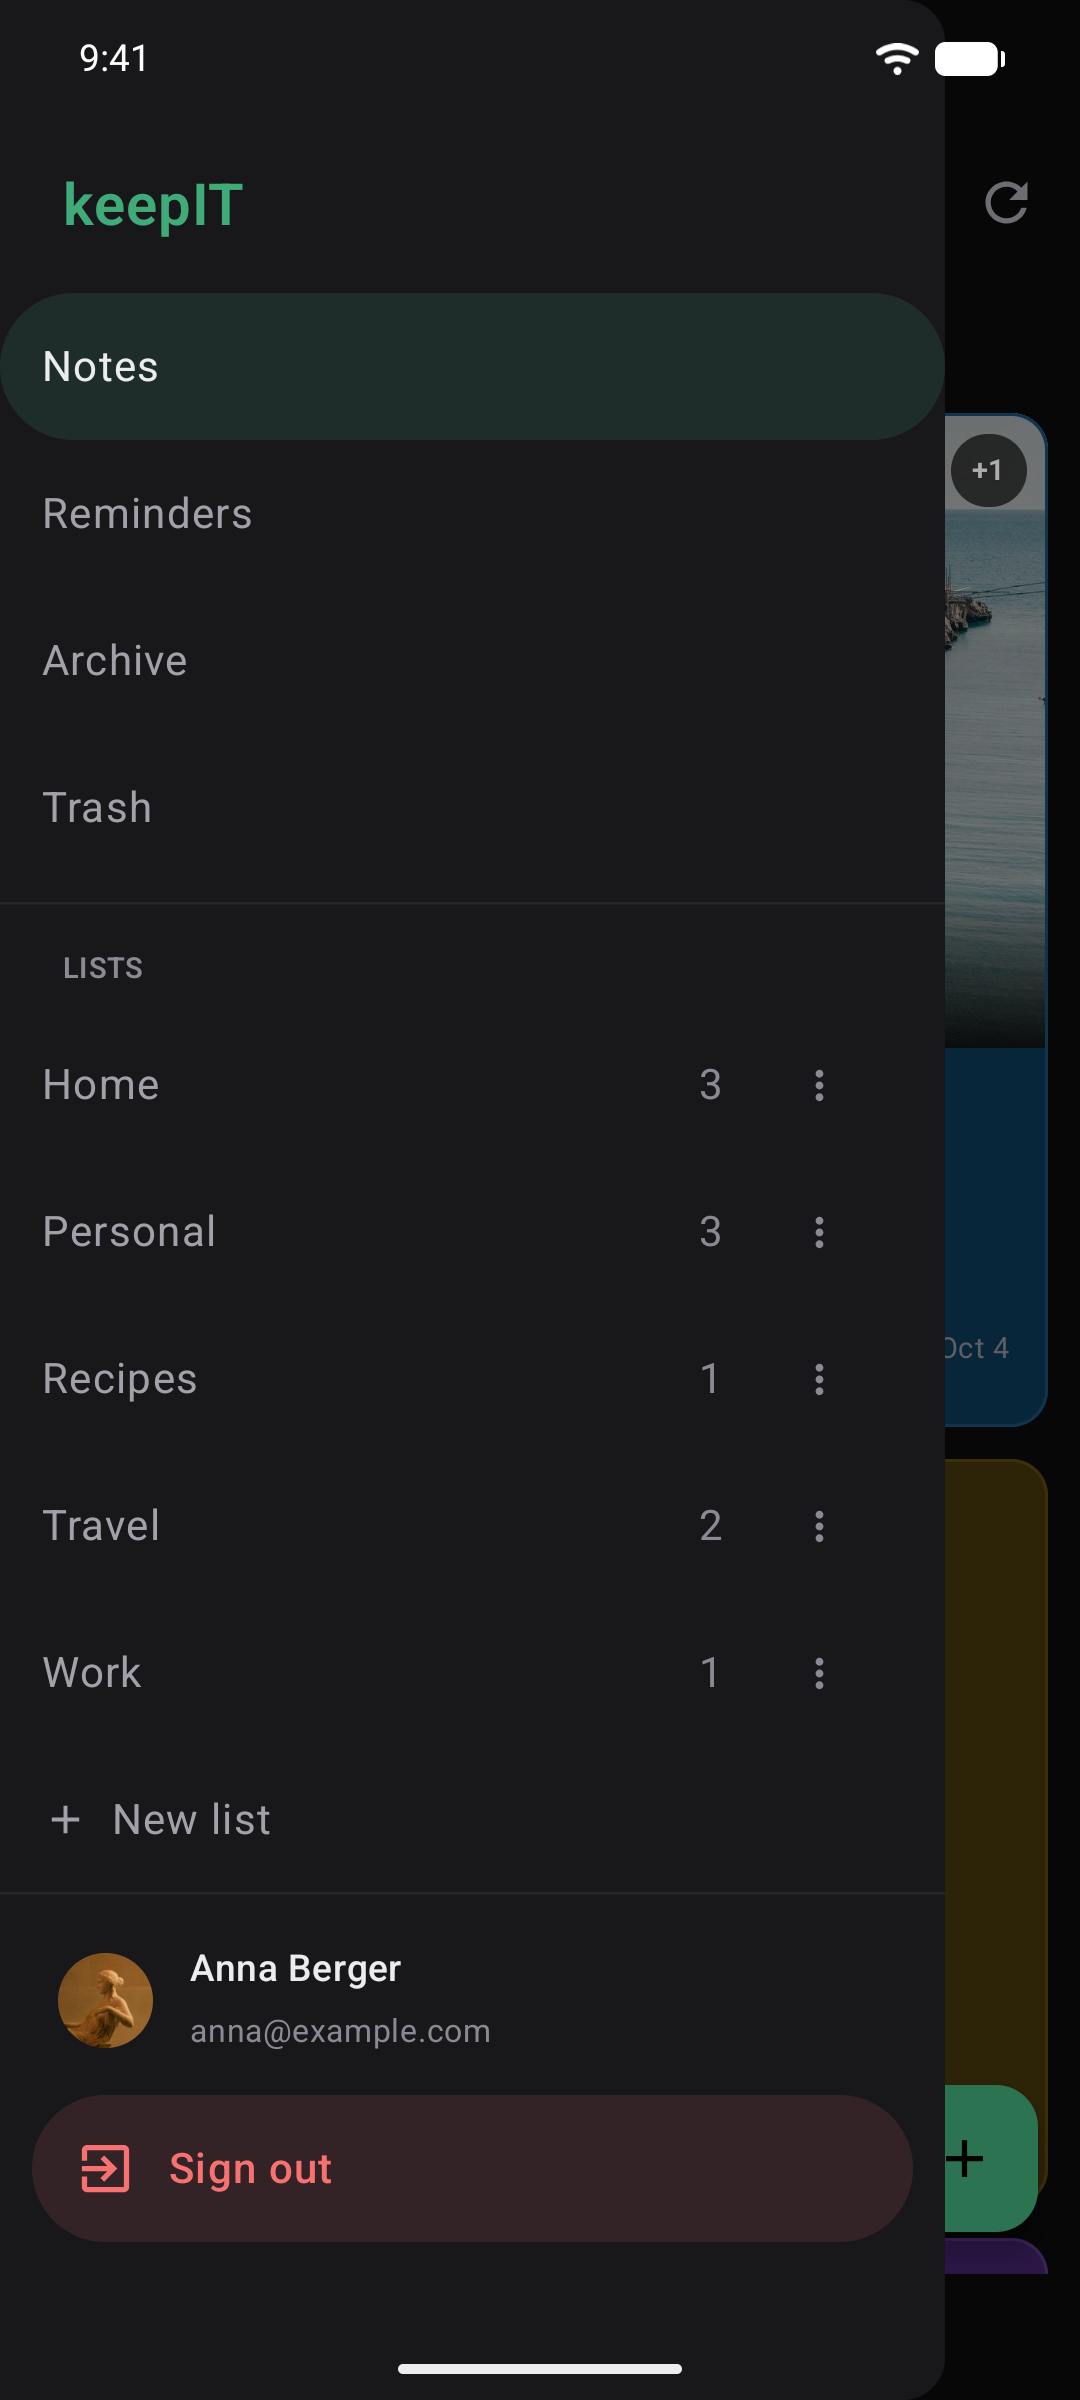
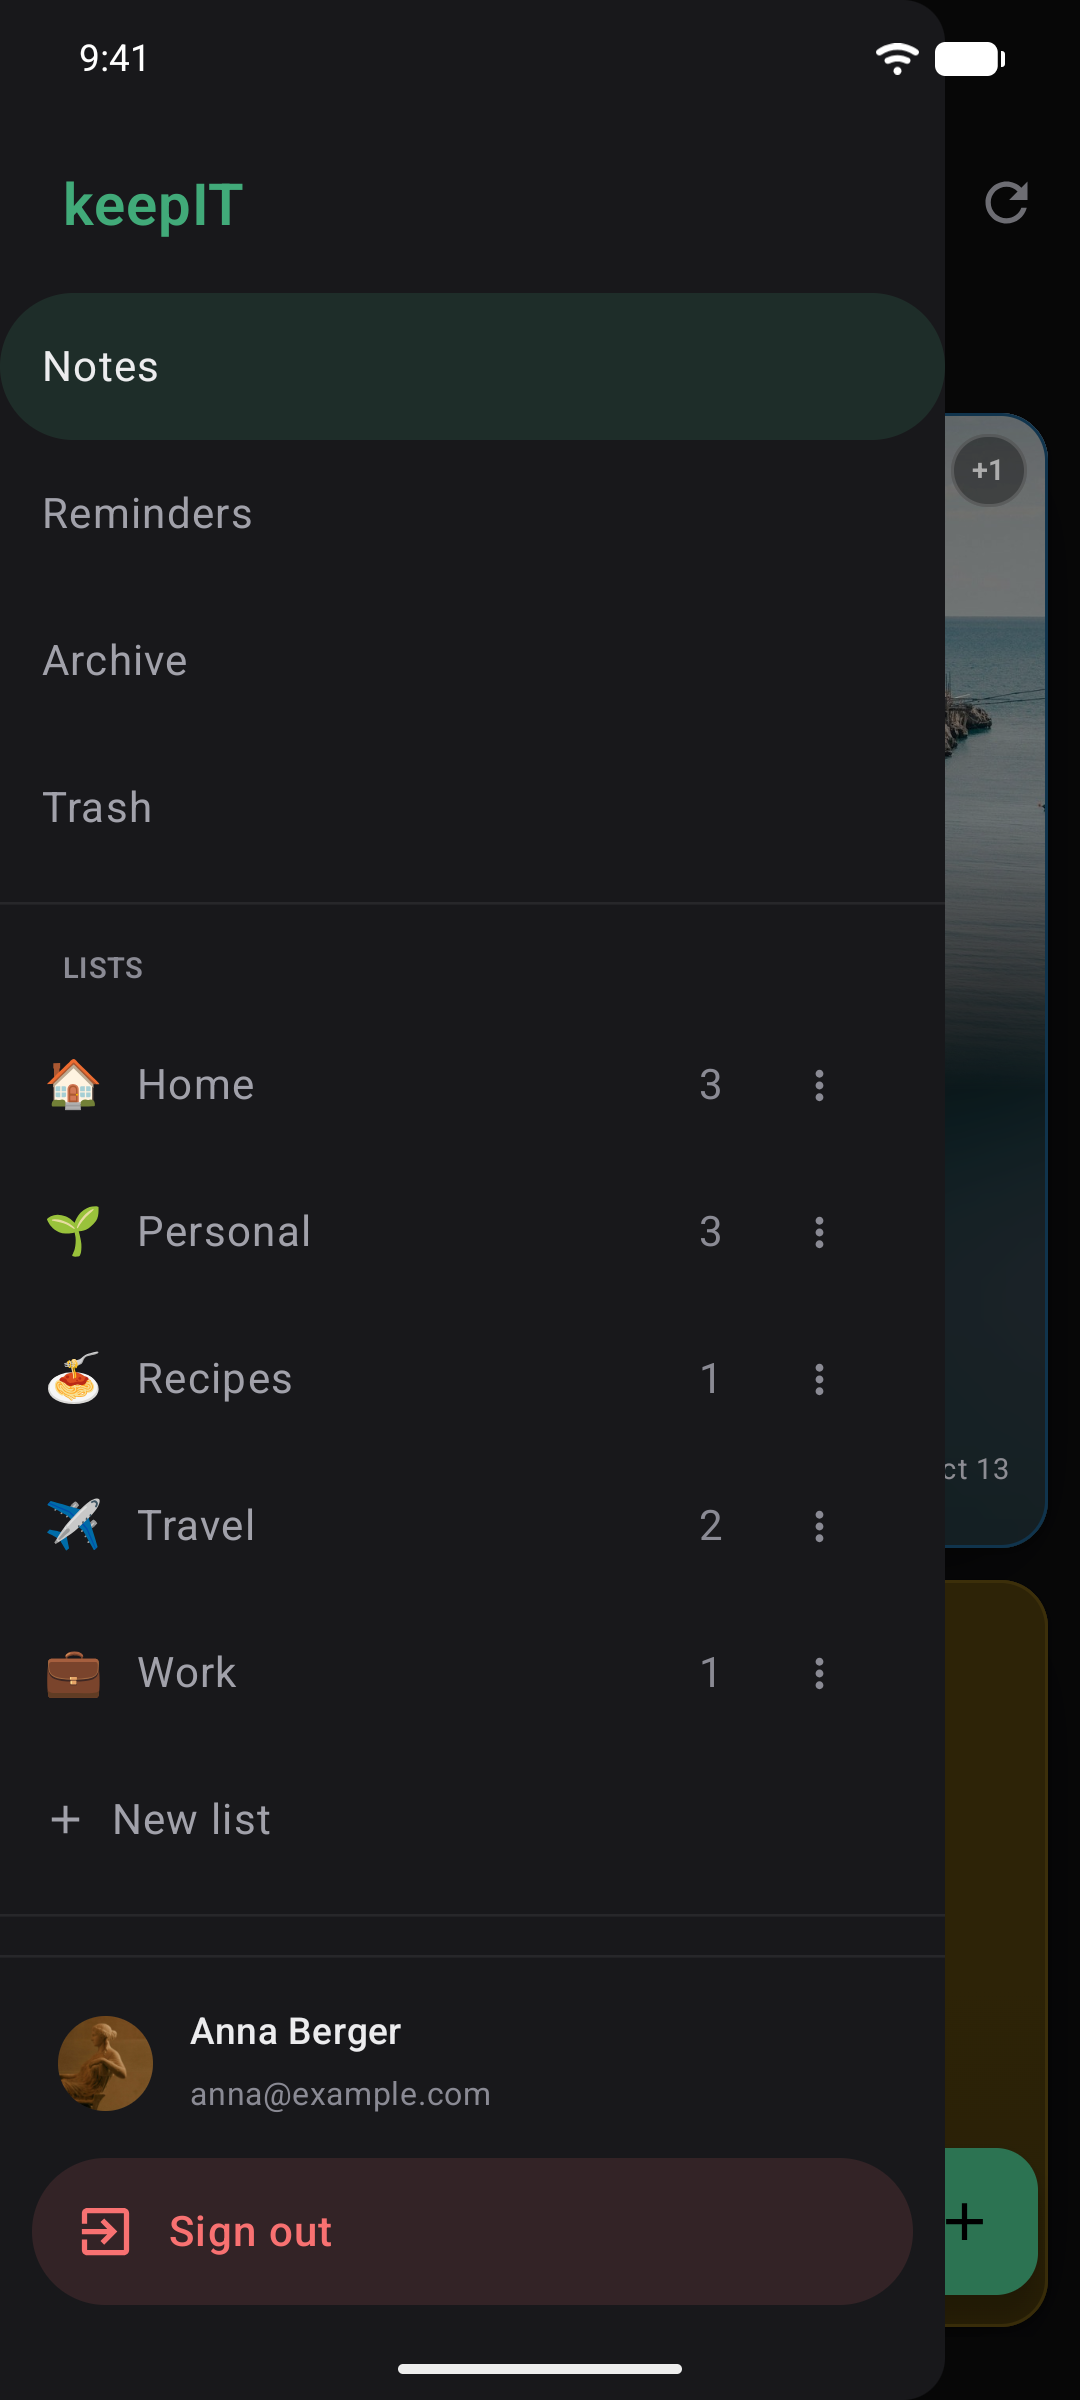
docs: retake the screenshots with the new note cards
Every screenshot predated the note cards' new look (the fill lit from
above, the rounder corners, a photo note painted on a blur of its
photo) and the icons on lists. All are retaken from main (699d310),
built as 1.0.0, against the same curated demo account as last time,
rebuilt, with an emoji on each list.

- README, F-Droid, Unraid: the same fourteen files showing the same
  things, so no link or alt text changes. The web ones are from the
  single-container image, the phone ones from the R8 build.
- The Puglia note leads with a landscape crop of its photo. A card
  shows a photo at its own shape, and the portrait one filled the
  first phone screenshot by itself.
- Feature graphic: its three cards are drawn the way the app draws a
  note.

diff --git a/docs/brand/feature-graphic.html b/docs/brand/feature-graphic.html
@@ -9,6 +9,9 @@
 
   Colours are the app's: the forest accent fill (#41aa79), the dark canvas (#18181b), text tokens,
   and the dim theme's note backgrounds and borders (sky, amber, violet) from web/src/index.css.
+  The cards are drawn the way the app draws a note (.note-card there): the colour lit from above,
+  sinking 10% toward black at the bottom, with the note's radius and the lit top edge. Only the
+  drop shadow is the graphic's own, deeper than a card's because these float over the canvas.
 -->
 <html lang="en">
 <head>
@@ -68,9 +71,10 @@
     width: 255px;
     box-sizing: border-box;
     padding: 26px 22px;
-    border-radius: 14px;
+    border-radius: 18px;
     border: 1px solid;
-    box-shadow: 0 24px 40px -12px rgb(0 0 0 / 0.55);
+    background: linear-gradient(180deg, var(--bg) 0%, var(--bg) 55%, color-mix(in srgb, var(--bg), black 10%) 100%);
+    box-shadow: inset 0 1px 0 rgb(255 255 255 / 0.06), 0 24px 40px -12px rgb(0 0 0 / 0.55);
   }
   .card .title { height: 9px; width: 130px; border-radius: 5px; background: var(--accent); opacity: 0.9; }
   .card .line { height: 7px; border-radius: 4px; background: var(--line); margin-top: 16px; }
@@ -79,9 +83,9 @@
   .box { width: 13px; height: 13px; border-radius: 3px; box-sizing: border-box; border: 2px solid var(--accent); }
   .box.done { background: var(--accent); }
 
-  .sky    { left: 592px; top: 42px;  height: 222px; transform: rotate(-4deg); background: #104566; border-color: #215d84; }
-  .amber  { left: 738px; top: 142px; height: 222px; transform: rotate(4deg);  background: #503f0e; border-color: #665114; }
-  .violet { left: 622px; top: 298px; height: 196px; transform: rotate(-3deg); background: #4e297f; border-color: #683fa1; }
+  .sky    { left: 592px; top: 42px;  height: 222px; transform: rotate(-4deg); --bg: #104566; border-color: #215d84; }
+  .amber  { left: 738px; top: 142px; height: 222px; transform: rotate(4deg);  --bg: #503f0e; border-color: #665114; }
+  .violet { left: 622px; top: 298px; height: 196px; transform: rotate(-3deg); --bg: #4e297f; border-color: #683fa1; }
 </style>
 </head>
 <body>

diff --git a/CHANGELOG.md b/CHANGELOG.md
@@ -63,6 +63,8 @@ app. Earlier versions are on the [releases page](https://github.com/Richy1989/ke
   reminders you import from before 1.0 keep that clock.
 - The FAQ explains how to [back up and restore a whole server](FAQ.md#how-do-i-back-up-the-whole-server),
   on Unraid, as a single container and with Compose.
+- New screenshots, with the new note cards and the list icons, in the README, on F-Droid and in the
+  Unraid template.
 
 ## 0.9.2
 
